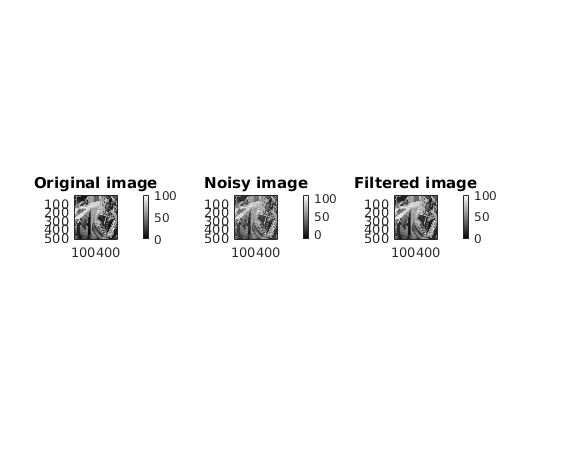
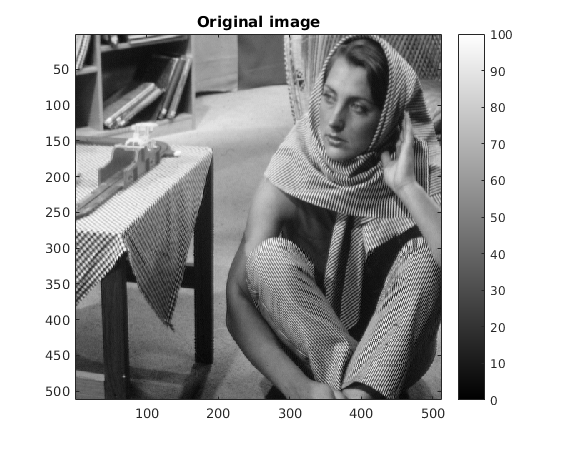
Q2 done

diff --git a/2/150050020_150050061_150050054_assignment2/2/report/myMainScript.html b/2/150050020_150050061_150050054_assignment2/2/report/myMainScript.html
@@ -66,7 +66,7 @@ table td { padding:7px 5px; text-align:left; vertical-align:top; border:1px soli
 
 
 
-  </style></head><body><div class="content"><h2>Contents</h2><div><ul><li><a href="#1">MyMainScript</a></li><li><a href="#2">Your code here</a></li></ul></div><h2>MyMainScript<a name="1"></a></h2><p>sample for my own colormap</p><pre class="codeinput">myNumOfColors = 256;
+  </style></head><body><div class="content"><h2>Contents</h2><div><ul><li><a href="#1">MyMainScript</a></li><li><a href="#2">Your code here</a></li><li><a href="#3">Give a map of values to optimize the value of sigma values</a></li><li><a href="#4">Some commented code which gives the RMSD values for the neighbouring values</a></li></ul></div><h2>MyMainScript<a name="1"></a></h2><p>sample for my own colormap</p><pre class="codeinput">myNumOfColors = 256;
 colorScale = 0:1/(myNumOfColors-1):1;
 myColorScale = [ colorScale' colorScale' colorScale' ];
 
@@ -91,7 +91,7 @@ fprintf(<span class="string">'Please wait. This may take a few seconds...\n'</sp
 [imageBilateralFiltered, kernel] = myBilateralFiltering(imageNoisy, spatial_sigma, intensity_sigma);
 
 <span class="comment">% Printing the image</span>
-subplot(1,3,1);
+<span class="comment">% subplot(1,3,1);</span>
 imagesc(imageOrig);
 title(<span class="string">'Original image'</span>);
 daspect ([1 1 1]);
@@ -99,7 +99,8 @@ axis <span class="string">tight</span>;
 colormap(myColorScale);
 colorbar;
 
-subplot(1,3,2);
+<span class="comment">% subplot(1,3,2);</span>
+figure();
 imagesc(imageNoisy);
 title(<span class="string">'Noisy image'</span>);
 daspect ([1 1 1]);
@@ -107,7 +108,8 @@ axis <span class="string">tight</span>;
 colormap(myColorScale);
 colorbar;
 
-subplot(1,3,3);
+<span class="comment">% subplot(1,3,3);</span>
+figure();
 imagesc(imageBilateralFiltered);
 title(<span class="string">'Filtered image'</span>);
 daspect ([1 1 1]);
@@ -125,20 +127,65 @@ colormap(myColorScale);
 colorbar;
 
 fprintf(<span class="string">'The RMSD value for the original and filtered image is %f\n'</span>, RMSD(imageOrig, imageBilateralFiltered));
-
-toc;
-</pre><pre class="codeoutput">Please wait. This may take a few seconds...
-The RMSD value for the original and filtered image is 3.284432
-Elapsed time is 3.426622 seconds.
-
 </pre>
-<img width="100%" src="myMainScript_01.png" alt=""><br>
-<img width="100%" src="myMainScript_02.png" alt=""><br>
-
-
-<p class="footer"><br><a href="http://www.mathworks.com/products/matlab/">Published with MATLAB&reg; R2015b</a><br></p></div><!--
+<pre class="codeoutput">Please wait. This may take a few seconds...
+The RMSD value for the original and filtered image is 3.285645
+</pre>
+<span class="comment">
+<pre class="content">
+Here are the values for neighbouring values: 
+% myBilateralFiltering(imageNoisy, 0.9*spatial_sigma, intensity_sigma) -> 3.291765 
+% myBilateralFiltering(imageNoisy, 1.1*spatial_sigma, intensity_sigma) -> 3.294888 
+% myBilateralFiltering(imageNoisy, spatial_sigma, 0.9*intensity_sigma) -> 3.313506 
+% myBilateralFiltering(imageNoisy, spatial_sigma, 1.1*intensity_sigma) -> 3.302530 
+</pre>
+</span>
+<img vspace="5" hspace="5" src="myMainScript_01.png" alt=""> <img vspace="5" hspace="5" src="myMainScript_02.png" alt=""> <img vspace="5" hspace="5" src="myMainScript_03.png" alt=""> <img vspace="5" hspace="5" src="myMainScript_04.png" alt=""> <h2>Give a map of values to optimize the value of sigma values<a name="3"></a></h2><p>
+<pre class="codeinput">
+<span class="comment">
+%
+% fprintf('Calculating values...\n');
+% valmat = zeros(1000, 1000);
+% for s=1:3:100,
+%     for i=1:3:100,
+%         A = myBilateralFiltering(imageNoisy, s/10, i/10);
+%         k = RMSD(imageOrig, A);
+%         fprintf('RMSD (sigma_i = %f, sigma_s = %f) = %d\n', i/10, s/10, k);
+%         valmat(s,i) = k;
+%     end
+% end
+%
+</span>
+</pre>
+<h2>Some commented code which gives the RMSD values for the neighbouring values</h2>
+<pre class="codeinput">
+<span class="comment">
+%
+% Gives a map of values
+% values figured out : 1.6, 9.7
+% neighbouring values: 
+% 3.291765 
+% 3.294888 
+% 3.313506 
+% 3.302530 
+% after one iteration
+% im1 = myBilateralFiltering(imageNoisy, 0.9*spatial_sigma, intensity_sigma);
+% im2 = myBilateralFiltering(imageNoisy, 1.1*spatial_sigma, intensity_sigma);
+% im3 = myBilateralFiltering(imageNoisy, spatial_sigma, 0.9*intensity_sigma);
+% im4 = myBilateralFiltering(imageNoisy, spatial_sigma, 1.1*intensity_sigma);
+% fprintf('%f \n', RMSD(imageOrig, im1));
+% fprintf('%f \n', RMSD(imageOrig, im2));
+% fprintf('%f \n', RMSD(imageOrig, im3));
+% fprintf('%f \n', RMSD(imageOrig, im4));
+%
+</span>
+</pre></p>
+<pre class="codeinput">toc;
+</pre><pre class="codeoutput">Elapsed time is 4.587362 seconds.
+</pre><p class="footer"><br><a href="http://www.mathworks.com/products/matlab/">Published with MATLAB&reg; R2015b</a><br></p></div><!--
 ##### SOURCE BEGIN #####
 %% MyMainScript
+%
 % sample for my own colormap
 myNumOfColors = 256; 
 colorScale = 0:1/(myNumOfColors-1):1;
@@ -169,7 +216,7 @@ fprintf('Please wait. This may take a few seconds...\n');
 [imageBilateralFiltered, kernel] = myBilateralFiltering(imageNoisy, spatial_sigma, intensity_sigma);
 
 % Printing the image
-subplot(1,3,1);
+% subplot(1,3,1);
 imagesc(imageOrig);
 title('Original image');
 daspect ([1 1 1]);
@@ -177,7 +224,8 @@ axis tight;
 colormap(myColorScale);
 colorbar;
 
-subplot(1,3,2);
+% subplot(1,3,2);
+figure();
 imagesc(imageNoisy);
 title('Noisy image');
 daspect ([1 1 1]);
@@ -185,7 +233,8 @@ axis tight;
 colormap(myColorScale);
 colorbar;
 
-subplot(1,3,3);
+% subplot(1,3,3);
+figure();
 imagesc(imageBilateralFiltered);
 title('Filtered image');
 daspect ([1 1 1]);
@@ -204,6 +253,39 @@ colorbar;
 
 fprintf('The RMSD value for the original and filtered image is %f\n', RMSD(imageOrig, imageBilateralFiltered));
 
+%% Give a map of values to optimize the value of sigma values
+%
+% fprintf('Calculating values...\n');
+% valmat = zeros(1000, 1000);
+% for s=1:3:100,
+%     for i=1:3:100,
+%         A = myBilateralFiltering(imageNoisy, s/10, i/10);
+%         k = RMSD(imageOrig, A);
+%         fprintf('RMSD (sigma_i = %f, sigma_s = %f) = %d\n', i/10, s/10, k);
+%         valmat(s,i) = k;
+%     end
+% end
+%
+
+%% Some commented code which gives the RMSD values for the neighbouring values
+%
+% Gives a map of values
+% values figured out : 1.6, 9.7
+% neighbouring values: 
+% 3.291765 
+% 3.294888 
+% 3.313506 
+% 3.302530 
+% after one iteration
+% im1 = myBilateralFiltering(imageNoisy, 0.9*spatial_sigma, intensity_sigma);
+% im2 = myBilateralFiltering(imageNoisy, 1.1*spatial_sigma, intensity_sigma);
+% im3 = myBilateralFiltering(imageNoisy, spatial_sigma, 0.9*intensity_sigma);
+% im4 = myBilateralFiltering(imageNoisy, spatial_sigma, 1.1*intensity_sigma);
+% fprintf('%f \n', RMSD(imageOrig, im1));
+% fprintf('%f \n', RMSD(imageOrig, im2));
+% fprintf('%f \n', RMSD(imageOrig, im3));
+% fprintf('%f \n', RMSD(imageOrig, im4));
+%
 toc;
 
 ##### SOURCE END #####

diff --git a/2/150050020_150050061_150050054_assignment2/2/code/myMainScript.m b/2/150050020_150050061_150050054_assignment2/2/code/myMainScript.m
@@ -65,6 +65,7 @@ colorbar;
 fprintf('The RMSD value for the original and filtered image is %f\n', RMSD(imageOrig, imageBilateralFiltered));
 
 %% Give a map of values to optimize the value of sigma values
+%
 % fprintf('Calculating values...\n');
 % valmat = zeros(1000, 1000);
 % for s=1:3:100,
@@ -75,8 +76,10 @@ fprintf('The RMSD value for the original and filtered image is %f\n', RMSD(image
 %         valmat(s,i) = k;
 %     end
 % end
+%
 
 %% Some commented code which gives the RMSD values for the neighbouring values
+%
 % Gives a map of values
 % values figured out : 1.6, 9.7
 % neighbouring values: 
@@ -93,4 +96,5 @@ fprintf('The RMSD value for the original and filtered image is %f\n', RMSD(image
 % fprintf('%f \n', RMSD(imageOrig, im2));
 % fprintf('%f \n', RMSD(imageOrig, im3));
 % fprintf('%f \n', RMSD(imageOrig, im4));
+%
 toc;
